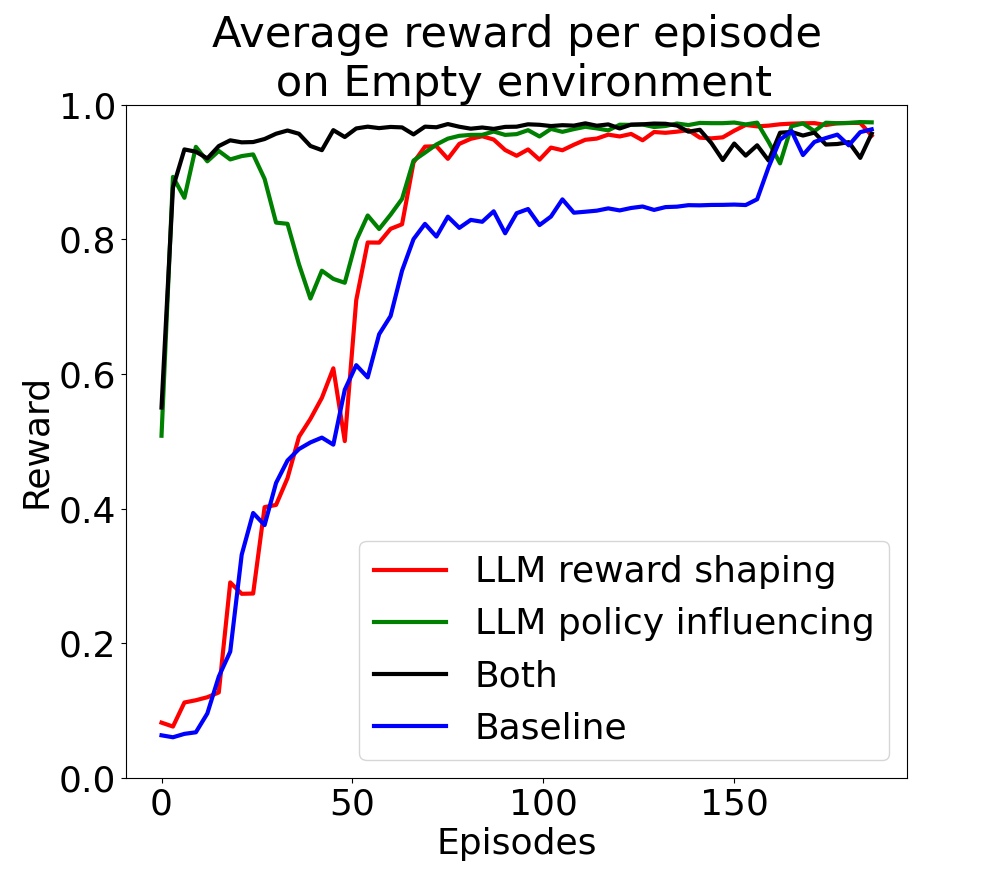
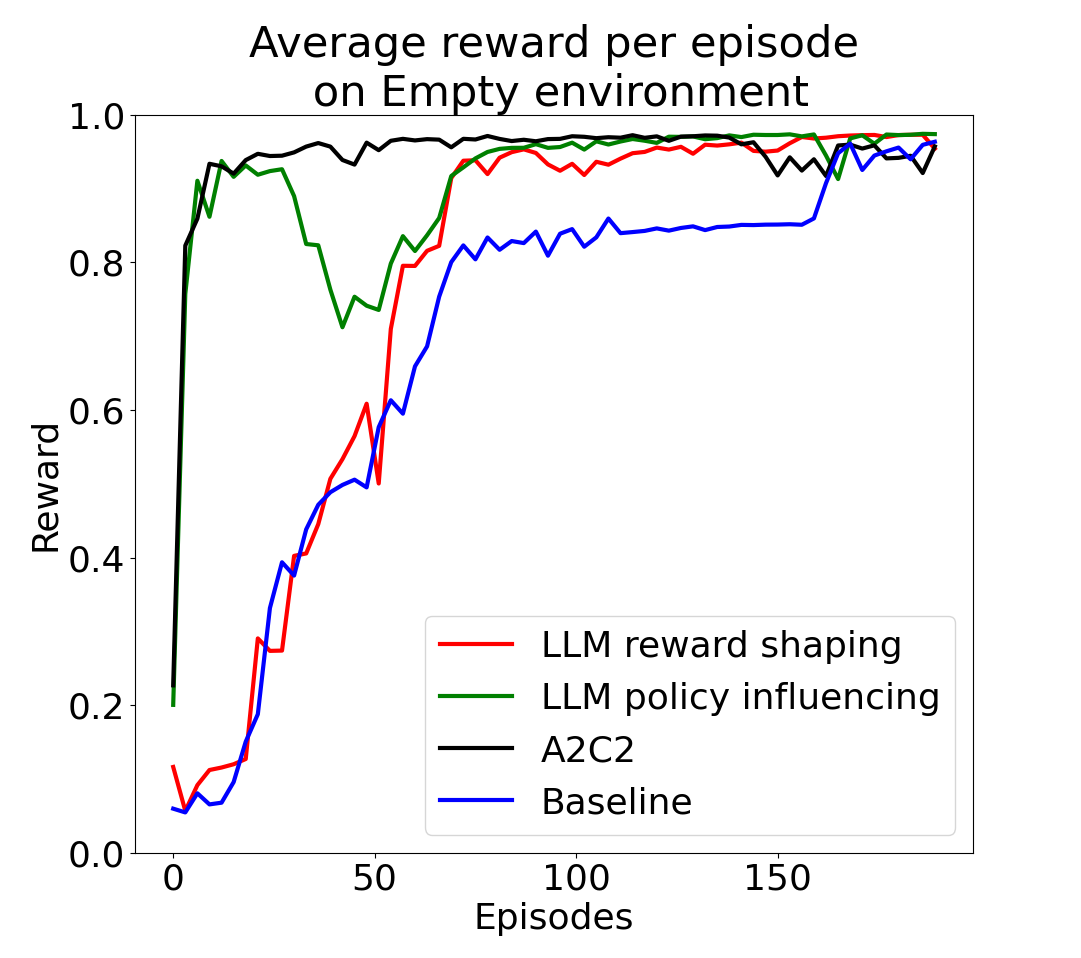
update paper?

diff --git a/doc/paper.tex b/doc/paper.tex
@@ -44,7 +44,7 @@ jonatahh@ifi.uio.no}
 
 \begin{abstract}
 
-Reinforcement Learning (RL) algorithms suffer when rewards are sparse and the state-action space is large. Even tasks which seem relatively simple can prove intractable if the completion of the task requires subtasks to be completed first, or if the reward only comes when the entire task has been completed. In such cases, random exploration is unlikely to lead the agent to discover a solution to the problem. The apparent simplicity of such problems is often due to human intuition, which allow us to quickly see possible solutions to a diverse set of problems. Large Language Models (LLMs) are trained on large corpora of human written text, and have been shown to capture parts of this intuition in many tasks. In recent years, LLMs have been successfully used to aid RL agents in more efficient exploration, and have allowed them to solve problems which previous methods have been unable to. We compare different methods for integrating an LLM into the Deep Learning RL algorithm Proximal Policy Optimization (PPO), and compare their efficiency against each other. \footnote{Code available at \href{https://github.com/jonatan-hanssen/in5490-project}{github}}
+Reinforcement Learning (RL) algorithms suffer when rewards are sparse and the state-action space is large. Even tasks which seem relatively simple can prove intractable if the completion of the task requires subtasks to be completed first, or if the reward only comes when the entire task has been completed. In such cases, random exploration is unlikely to lead the agent to discover a solution to the problem. The apparent simplicity of such problems is often due to human intuition, which allow us to quickly see possible solutions to a diverse set of problems. Large Language Models (LLMs) are trained on large corpora of human written text, and have been shown to capture parts of this intuition in many tasks. In recent years, LLMs have been successfully used to aid RL agents in more efficient exploration, and have allowed them to solve problems which previous methods have been unable to. We compare different methods for integrating an LLM into the Deep Learning RL algorithm Proximal Policy Optimization (PPO), and compare their efficiency against each other. \footnote{Code available at \href{https://github.com/jonatan-hanssen/in5490-project}{GitHub}}
 
 \end{abstract}
 
@@ -100,7 +100,7 @@ In this case, the LLM is integrated as part of the PPO algorithm, directly influ
 
 \subsubsection{PPO with LLM Integrated in the Reward Function}
 
-The agent is trained as in the baseline. The agent's state observation is encoded to natural text, and sent as part of a prompt to the LLM at every timestep. In addition to the state observation, the LLM is also asked to respond with a list of recommended actions for the agent to perform. The agent then acts independently of the LLM for that timestep, as dictated by the baseline RL algorithm it is trained with. As it does so, its chosen action is encoded to natural text. Then, the LLM is used as a tool for semantic similarity comparison, comparing its own formerly proposed action to the action performed by the agent. Finally, high semantic similarity gives an additional pseudo-reward which is added to the reward of the environment. Compared to the policy influencing method above, this approach is less direct, as the policy is only indirectly affected by the LLM through these additional rewards, which only take effect when the policy is updated through backpropogation after an entire episode is completed. Thus, this method functions more as an advisor, influencing the policy in a more long term capacity than the coaching of the policy influencer. Throughout the paper, we will refer to this as LLM reward shaping.
+The agent is trained as in the baseline. The agent's state observation is encoded to natural text, and sent as part of a prompt to the LLM at every timestep. After being given the state observation, the LLM is asked to respond with a list of recommended actions for the agent to perform. The agent then acts independently of the LLM for that timestep, as dictated by the baseline RL algorithm it is trained with. As it does so, its chosen action is encoded to natural text. Then, another LLM is used for semantic similarity comparison, comparing the proposed action to the action performed by the agent. Finally, high semantic similarity gives an additional pseudo-reward which is added to the reward of the environment. Compared to the policy influencing method above, this approach is less direct, as the policy is only indirectly affected by the LLM through these additional rewards, which only take effect when the policy is updated through backpropogation after an entire episode is completed. Thus, this method functions more as an advisor, influencing the policy in a more long term capacity than the coaching of the policy influencer. Throughout the paper, we will refer to this as LLM reward shaping.
 
 \subsubsection{PPO with both LLM reward shaping and LLM policy influencing}
 
@@ -109,15 +109,15 @@ Finally, we combine the two LLM integrations, hoping to combine the direct influ
 
 \subsection{Language Models}
 
-In both these cases, we need two language models; one to generate the suggestions and one to generate semantic similarity values.
+In all these cases, we need two language models; one to generate the suggestions and one to generate semantic similarity values.
 
-For text generation, we have decided utilize an LLM from the Llama open-source family of language models developed by Meta AI, first released in Febraury, 2023. Specifically, we chose Llama 2, which has been trained using 40\% more data than its predecessor Llama 1, and has double the context length\cite{llama}. In the experiments presented below, we use the smallest version of Llama 2, with 7 billion parameters, which we download to run locally and reduce the bottleneck effect of having to call an API to a model hosted by someone else. The reason for not using any of the larger Llama 2 models is simply the hardware limitation we face, with the 7B model requiring 19GB of VRAM to be run. 
+For text generation, we have decided to utilize an LLM from the Llama open-source family of language models developed by Meta AI, first released in Febraury, 2023. Specifically, we chose Llama 2, which has been trained using 40\% more data than its predecessor Llama 1, and has double the context length\cite{llama}. In the experiments presented below, we use the smallest version of Llama 2, with 7 billion parameters, which we download to run locally and reduce the bottleneck effect and cost of having to call an API to a model hosted by someone else. The reason for not using any of the larger Llama 2 models is simply the hardware limitation we face, with the 7B model requiring 19GB of VRAM to be run. 
 
-Some research papers propose fine-tuning of LLMs as means of leveraging the capabilites of the language models for decision-making purposes even further \cite{grounding}. Our plan of action, on the other hand, aims at evaluating the efficacy of the LLM without any previous pre-tuning. From the perspective of reinforcement learning, this is the appropriate course of action, as the LLM should not possess any previous knowledge about the task at hand, just like the agent should not. In addtion, the act of fine-tuning LLM is a rather time-comsuming process, requiring the generation and structuring of a new dataset, and also vast hardware resources. 
+Some research papers propose fine-tuning of LLMs as a means of leveraging the capabilites of the language models for decision-making purposes even further \cite{grounding}. Our plan of action, on the other hand, aims at evaluating the efficacy of the LLM without any previous pre-tuning. From the perspective of reinforcement learning, this is the appropriate course of action, as the LLM should not possess any previous knowledge about the task at hand, just like the agent should not. In addtion, the act of fine-tuning LLM is a rather time-comsuming process, requiring the generation and structuring of a new dataset, and also vast hardware resources. 
 
 Instead of fine tuning the LLM, we use few-shot learning when prompting, giving the LLM a few examples of observations and correct corresponding action recommendations. This is an effective way to guide the LLM for our specific purposes without requiring us to retrain the entire network.
 
-For generating semantic similarity values, we use Sentence-Bert \cite{bert} for generating encoding vectors, and perform a cosine similarity calculation of the two sentence encodings. This gives a value between $-1$ and $1$, where two sentences with the exact same encoding have a cosine similarity of $1$.
+For generating semantic similarity values, we follow \cite{ellm} and use Sentence-Bert \cite{bert} for generating encoding vectors, and perform a cosine similarity calculation of the two sentence encodings. This gives a value between $-1$ and $1$, where two sentences with the exact same encoding have a cosine similarity of $1$.
 
 
 \section{Experiments}
@@ -139,7 +139,7 @@ With no intermediate rewards, more complex environments like the one shown in Fi
 
 \subsection{Our chosen environments}
 
-We select three different Minigrid environments with increasing complexity; Empty, DoorKey and UnlockPickup. For each environment we test our four different models; PPO with no LLM integration, PPO with LLM reward shaping and PPO with LLM policy influencing. All methods use the same hyperparameters for the PPO, which can be found in the appendix. For each of these methods, we run PPO for 2000 (200 for Empty) episodes of 1024 steps, and track the reward\footnote{The true environment reward, not including pseudo-rewards given by the LLM in reward shaping} received for each one. We do this eight times per method, and compare the average results per episode against each other.
+We select three different Minigrid environments with increasing complexity; Empty, DoorKey and UnlockPickup. For each environment we test our four different models; PPO with no LLM integration, PPO with LLM reward shaping, PPO with LLM policy influencing and PPO with both reward shaping and policy influencing (A2C2). All methods use the same hyperparameters for the PPO, which can be found in the appendix. For each of these methods, we run PPO for 2000 (200 for Empty) episodes of 1024 steps, and track the reward\footnote{The true environment reward, not including pseudo-rewards given by the LLM in reward shaping} received for each one. We do this eight times per method, and compare the average results per episode against each other.
 
 \subsubsection{Empty environment}
 
@@ -175,14 +175,14 @@ This section outlines the results of our experiments in each of our selected env
 \subsubsection{Empty environment}
 \label{emptyresultstext}
 
-In this simple environment, we see that both LLM reward shaping, LLM policy influencing and A2C2 outperform the baseline model. Averaging over all episodes for all eight runs, we find that reward shaping increases the mean reward received by $10\%$ over the baseline, with a lower standard deviation in rewards received per run of $0.12$. Policy influencing scores even higher at $32\%$ over the baseline, with an even lower standard deviation of $0.09$. Finally, A2C2 performs the best of the four with a $37\%$ increase in average reward over the baseline model, and the lowest standard deviation of $0.04$
+In this simple environment, we see from Figure \ref{emptyresults} that both LLM reward shaping, LLM policy influencing and A2C2 outperform the baseline model. Averaging over all episodes for all eight runs, we find that reward shaping increases the mean reward received by $10\%$ over the baseline, with a lower standard deviation in rewards received per run of $0.12$. Policy influencing scores even higher at $32\%$ over the baseline, with an even lower standard deviation of $0.09$. Finally, A2C2 performs the best of the four with a $37\%$ increase in average reward over the baseline model, and the lowest standard deviation of $0.04$. See Table \ref{emptytable}.
 
 Notably, both policy influencing and A2C2 receive much higher rewards than reward shaping and the baseline right from the first episode. This makes sense as the environment is so simple that the LLM seems not to have any problem giving sensible instructions to directly influence the policy most of the time. However, we notice from the graph that policy influencing alone consistently gives a significant dip in received reward after the first few episodes, which it later compensates for, following a similar trajectory to that of reward shaping after about 50 episodes. We believe this could be a sign of the policy influencing being somewhat overly influential in changing the logits early on, because the logits initially have low values. As the PPO learns the environment, the magnitude of the logits increases, which at some point leads to conflicting contributions to the logits from the LLM and from the PPO. As the dip stops and performance increases again, this is likely due to the PPO becoming more influencing than the LLM after having started to learn the environment properly. We also notice that this dip is completely removed with A2C2, which could signify that the added reward shaping helps the PPO learn faster, enabling it to increase the influence from PPO on the logits faster.
 
 \begin{figure}[h]
 \centerline{\includegraphics[width=3.25in]{figure/emptyresults.png}}
 \caption{Reward per episode for the four different methods in the Empty environment}
-\label{doorkeyresults}
+\label{emptyresults}
 \end{figure}
 
 \begin{table}[h]
@@ -195,7 +195,7 @@ Method & Mean reward & Std reward & Increase over baseline \\
 Reward shaping & 0.76 & 0.12 & 10\% \\
 Policy influencing & 0.91 & 0.09 & 32\% \\
 Both & 0.95 & 0.04 & 37\% \\
-Baseline & 0.69 & 0.28 & 0\% \\
+Baseline & 0.69 & 0.28 & - \\
 \end{tabular}
 \end{center}
 \end{table}
@@ -203,7 +203,14 @@ Baseline & 0.69 & 0.28 & 0\% \\
 
 \subsubsection{DoorKey environment}
 
-As we can see from Figure \ref{doorkeyresults}, we see impressive results from our LLM integration in this environment as well, especially from reward shaping and A2C2. For the mean and standard deviation of all methods, see table \ref{doorkeytable}.
+As we can see from Figure \ref{doorkeyresults}, LLM integration gives impressive results in this environment as well, especially from reward shaping and A2C2. For the mean and standard deviation of all methods, see table \ref{doorkeytable}.
+
+
+\begin{figure}[h]
+\centerline{\includegraphics[width=3.25in]{figure/doorkeyresults.png}}
+\caption{Reward per episode for the four different methods in the DoorKey environment}
+\label{doorkeyresults}
+\end{figure}
 
 \begin{table}[h]
 \caption{All results on DoorKey environment}
@@ -215,7 +222,7 @@ Method & Mean reward & Std reward & Increase over baseline \\
 Reward shaping & 0.48 & 0.28 & 24\% \\
 Policy influencing & 0.36 & 0.31 & -6\% \\
 Both & 0.53 & 0.25 & 38\% \\
-Baseline & 0.38 & 0.31 & 0\% \\
+Baseline & 0.38 & 0.31 & - \\
 \end{tabular}
 \end{center}
 \end{table}
@@ -226,15 +233,10 @@ Looking at LLM policy influencing, we see that it has resulted in somewhat worse
 
 Regardless, the results from both of these methods are eclipsed by the results from combining LLM reward shaping and policy influencing together in our A2C2 model. Averaging over 8 runs, we observe a $38\%$ increase in reward from the environment compared to PPO alone, which is significantly higher than both policy influencing and reward shaping. Furthermore, it has the lowest standard deviation of all methods, at $0.25$. Clearly, the combination of immediate direct suggestions from the policy influencer and long term indirect suggestions from the reward shaper is a favourable way of integrating the LLM with PPO, which gives results which are better than the sum of its parts, not only in the simple Empty environment, but also in more complicated environments like DoorKey.
 
-\begin{figure}[h]
-\centerline{\includegraphics[width=3.25in]{figure/doorkeyresults.png}}
-\caption{Reward per episode for the four different methods in the DoorKey environment}
-\label{doorkeyresults}
-\end{figure}
 
 \subsubsection{Unlock Pickup environment}
 
-The Unlock Pickup environment is an even more complex environment than DoorKey, requiring a much longer string of actions to give out a reward. As may be anticipated, this added complexity makes the average reward much lower, and can see from Fig. \ref{unlockpickupresults} that all methods struggle (keep in mind the the y-axis now only goes to $0.15$, as opposed to the maximum reward possible of $1$, which the other graphs use).
+The Unlock Pickup environment is an even more complex environment than DoorKey, requiring a much longer string of actions to give out a reward. As may be anticipated, this added complexity makes the average reward much lower, and we can see from Figure \ref{unlockpickupresults} that all methods struggle (keep in mind the the y-axis now only goes to $0.15$, as opposed to the maximum reward possible of $1$, which the other graphs use).
 
 \begin{figure}[h]
 \centerline{\includegraphics[width=3.25in]{figure/unlockpickupresults.png}}
@@ -254,19 +256,19 @@ Method & Mean reward & Std reward & Increase over baseline \\
 Reward shaping & 0.037 & 0.082 & 275\% \\
 Policy influencing & 0.014 & 0.034 & 43\% \\
 Both & 0.031 & 0.072 & 222\% \\
-Baseline & 0.0097 & 0.025 & 0\% \\
+Baseline & 0.0097 & 0.025 & - \\
 \end{tabular}
 \end{center}
 \end{table}
 
-Looking at figure \ref{unlockpickupresults}, we can see that policy influencing also struggles in this environment. From table \ref{unlockpickuptable}, we see a $43\%$ increase, although this is not very impressive given the low score of the baseline, and it is difficult to see an upward trend in the amount of reward received, which can be clearly seen in the reward shaping method. Policy influencing received a mean average score of $0.014$. In this complicated environment, it may that suboptimal responses from the LLM have high chance to ruin the agent's chance to complete the goal, for example by suggesting to open the box instead of picking it up. As explained earlier, this instantly loses the game by removing the box from the game. Thus, while the results are better than the baseline, they are still very poor and we do not consider policy influencing to be particularly beneficial in this environment.
+Looking at figure \ref{unlockpickupresults}, we can see that policy influencing also struggles in this environment. From table \ref{unlockpickuptable}, we see a $43\%$ increase, although this is not very impressive given the low score of the baseline, and it is difficult to see an upward trend in the amount of reward received, which can be clearly seen in both reward shaping and A2C2. Policy influencing received a mean score of $0.014$. In this complicated environment, it may be that suboptimal responses from the LLM have high chance to ruin the agent's chance to complete the goal, for example by suggesting to open the box instead of picking it up. As explained earlier, this instantly loses the game by removing the box from the game. Thus, while the results are better than the baseline, they are still very poor and we do not consider policy influencing to be particularly beneficial in this environment.
 
 Our A2C2 performs much better than only policy influencing, but in this case we are not able to combine the two LLM integrations to receive a performance higher than the sum of its parts. Here we receive a score of $0.072$, which is higher than the baseline and policy influencing, but not higher than reward shaping by itself. It may be that in this case, the performance of policy influencing is so poor that the combination is not able to utilize the best of both methods, instead only being dragged down by poor suggestions.
 
 \subsection{Inspecting the LLM responses}
 \label{llmresponse}
 
-Having looked at the performance of our different models, we can see that the suggestions from the LLM have positive effects in many cases, while also sometimes being detrimental. We now inspect some sample responses from the LLM, to gain deeper understanding of how the LLM is effecting the agent.
+Having looked at the performance of our different models, we can see that the suggestions from the LLM have positive effects in many cases, while also sometimes being detrimental. We now inspect some sample responses from the LLM, to gain deeper understanding of how the LLM is affecting the agent.
 
 \subsubsection{Empty}
 
@@ -279,7 +281,8 @@ From table \ref{emptyresponses} we see that the suggestions are very good, which
 \begin{tabularx}{3.25in}{X | X}
 Prompt & Response \\
 \hline
-My goal is: get to the green goal square. I see a green goal left and forward & move forward. \\
+My goal is: get to the green goal square. I see nothing interesting. & move forward. \\
+My goal is: get to the green goal square. I see a green goal left and forward. & move forward. \\
 My goal is: get to the green goal square. I see a green goal left. & move left. \\
 My goal is: get to the green goal square. I see a green goal directly in front. & move forward.
 \end{tabularx}
@@ -288,7 +291,7 @@ My goal is: get to the green goal square. I see a green goal directly in front. 
 
 \subsubsection{DoorKey}
 
-From table \ref{doorkeyresponses} we can see that some suggestions are good, such as suggestion to pick up a key when it is directly in front, and moving towards the goal although other observations are also present. We also see some suboptimal responses, such as suggesting to pick up a key when it is not directly in front and suggesting to pick up a key when it is already in the players inventory. These poor responses can explain why policy influencing can have a detrimental impact in this environment, as these actions will always be sampled slightly more often.
+From table \ref{doorkeyresponses} we can see that some suggestions are good, such as suggestion to pick up a key when it is directly in front, and moving towards the goal although other observations are also present. We also see some suboptimal responses, such as suggesting to pick up a key when it is not directly in front and suggesting to pick up a key when it is already in the player's inventory. These poor responses can explain why policy influencing can have a detrimental impact in this environment, as these actions will always be sampled slightly more often.
 
 \begin{table}[h]
 \caption{Sample responses from LLM in DoorKey environment. Good responses above line and suboptimal responses below. GOAL is equal to {\it use the key to open the door and then get to the goal}}
@@ -309,7 +312,7 @@ My goal is: GOAL. I see a green goal left and forward, have a yellow key in my i
 
 \subsubsection{UnlockPickup}
 
-On our final environment, we can see (Table \ref{unlockpickupresponses}) beneficial responses similar to the ones given in DoorKey. Here, we also see some absurd responses, which show that the LLM has completely misunderstood the prompt and few-shot examples. These responses are not particularly common, but they do occur sometimes and reveal some of the problems with running a relatively small LLM locally, as opposed to a larger model such as GPT4.
+On our final environment, we can see (Table \ref{unlockpickupresponses}) beneficial responses similar to the ones given in DoorKey. Here, we also see some absurd responses, which show that the LLM has completely misunderstood the prompt and few-shot examples. These responses are not particularly common, but they do occur sometimes and reveal some of the problems with running a relatively small LLM locally, as opposed to a larger model such as GPT4. These problems have been attempted remedied through prompt engineering (see the Appendix).
 
 \begin{table}[h]
 \caption{Sample responses from LLM in UnlockPickup environment. Good responses above line and suboptimal responses below.}
@@ -318,7 +321,7 @@ On our final environment, we can see (Table \ref{unlockpickupresponses}) benefic
 \begin{tabularx}{3.25in}{X | X}
 Prompt & Response \\
 \hline
-My goal is: pick up the blue box. I see a locked red door LEFT and FORWARD, see a red key directly in front. & pick up red key. \\
+My goal is: pick up the blue box. I see a locked red door left and forward, see a red key directly in front. & pick up red key. \\
 \hline
 My goal is: pick up the grey box. I have a grey key in my inventory. & Congratulations, you have successfully reached your goal! You find a small, mysterious box inside the grey box. It's made of a strange, otherworldly material that seems to glow with an ethereal light. As you examine it closer, you can feel a faint hum of energy emanating from it. \\
 My goal is: pick up the green box. I have a purple key in my inventory. & Great! With the purple key in your inventory, you can now unlock the green box. You approach the green box and use the purple key to unlock it. Inside, you find a shiny coin!
@@ -369,6 +372,13 @@ We would like to acknowledge the ROBIN research group at the University of Oslo 
 
 \section*{Appendix}
 
+\subsection{Prompt given to Llama2}
+
+Below is the system prompt sent to Llama2, which is prepended before any state observation:
+
+{\it You are a helpful assistant giving advice to someone playing a videogame. You will recieve the current goal of the game and a list of observations about the objects in the environment and their positions relative to the player at one single timestep. You shall give a list of suggested actions that the player will take to reach their goal during this single timestep. The available actions to the player are: move forward, turn left and right, pick up items, drop items and use items. You MUST ALWAYS RESPOND with one or more of these actions. Your response MUST ALWAYS follow the template of the given example responses. NEVER ADD anything not in the example responses. You will NEVER ASSUME that other possible actions exist. You will NEVER ASSUME that the game is finished. You WILL NEVER make any other assumptions about the environment, only use the information given to you. If none of the observations are relevant to solving the task, respond that the player should turn around and explore more. Separate each suggestion with a new line. Be concise. ONLY FOLLOW THESE INSTRUCTIONS. NEVER RESPOND IN ANY OTHER WAY. OTHERWISE, YOU WILL BE SEVERELY PUNISHED.}
+
+\subsection{Figures and tables}
 
 \begin{table}[h]
 \caption{PPO hyperparameters}
@@ -378,12 +388,12 @@ We would like to acknowledge the ROBIN research group at the University of Oslo 
 Parameter & Value \\
 \hline
 Gamma & 0.99 \\
-Steps/episode & 1024 \\
-Epochs/episode & 10 \\
-Batches/epoch & 8 \\
-Clip & 0.2 \\
-Value loss coeff. & 0.3 \\
-Entropy coeff. & 0 \\
+Steps per episode & 1024 \\
+Epochs per episode & 10 \\
+Batches per epoch & 8 \\
+PPO Clipping value & 0.2 \\
+Value loss coefficient & 0.3 \\
+Entropy coefficient. & 0 \\
 Learning rate & 3.0e-4 \\
 \end{tabular}
 \end{center}
